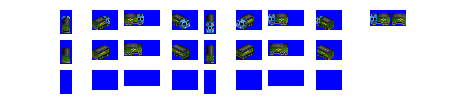
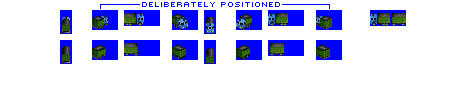
Change: improved appearance of Runwell box truck

diff --git a/src/vehicles/runwell.py b/src/vehicles/runwell.py
@@ -10,14 +10,14 @@ consist = RVConsist(vehicle_type = BoxHauler,
                 intro_date = 1910)
 
 consist.add_unit(weight = 12,
-                capacity = 10,
+                capacity = 12,
                 vehicle_length = 5,
                 effect_spawn_model = 'EFFECT_SPAWN_MODEL_STEAM',
                 effects = ['EFFECT_SPRITE_STEAM, -3, 0, 12'])
 
 consist.add_unit(weight = 7,
-                capacity = 15,
-                vehicle_length = 5)
+                capacity = 12,
+                vehicle_length = 4)
 
 consist.add_model_variant(intro_date=0,
                        end_date=global_constants.max_game_date,
